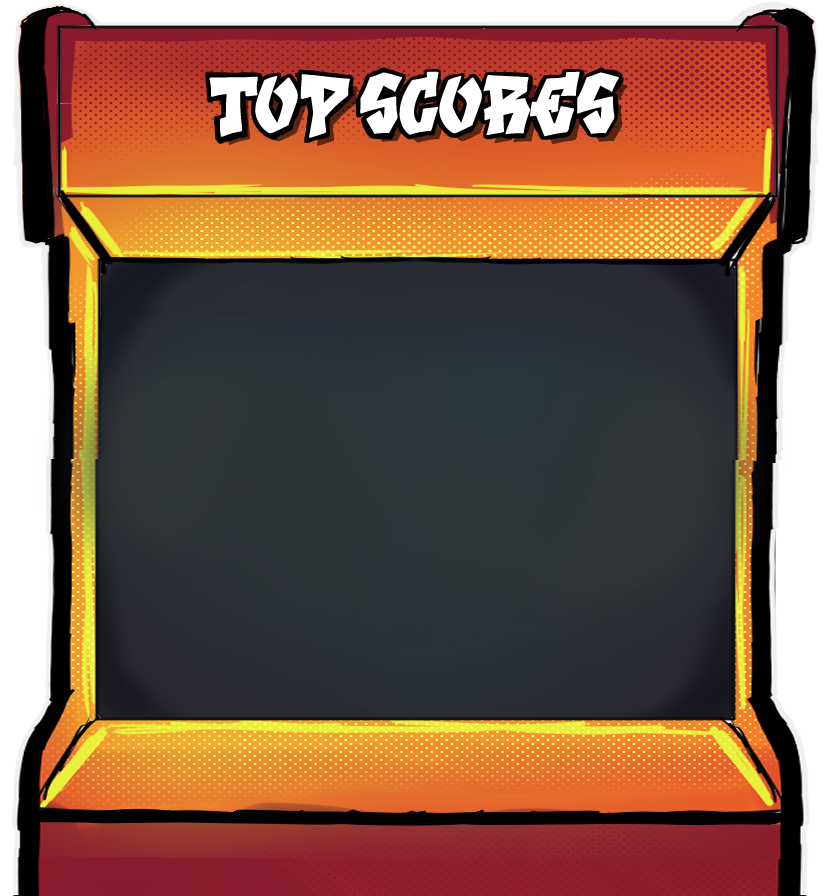
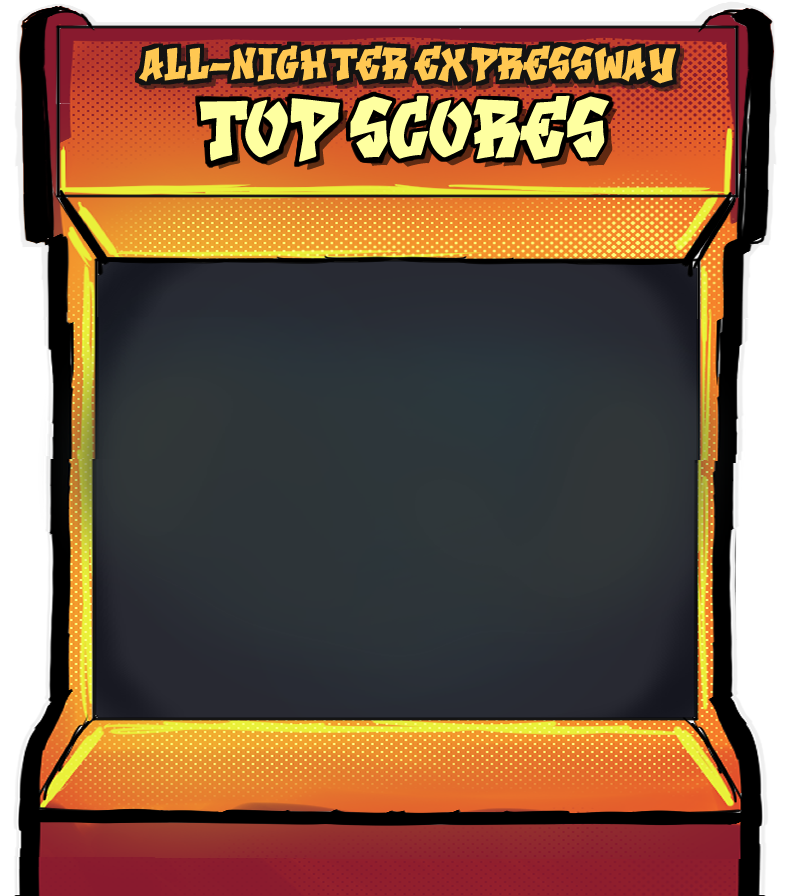
Updated top scores arcade image text to be: "All Nighter Expressway Top Scores"

Changed region(s): [[0.1517, 0.0, 1.0, 1.0], [0.0, 0.0, 0.1517, 1.0], [0.091, 0.0, 0.1214, 0.0312]]

diff --git a/src/components/home/preview-leaderboard.tsx b/src/components/home/preview-leaderboard.tsx
@@ -21,9 +21,10 @@ const getPlacementColor = (index: number): string => {
 const PreviewLeaderboard = ({ data }: { data: any }) => {
   return (
     <>
-    <div className="top-0 z-0 w-full h-[90vh] lg:w-3/5 md:h-225 bg-[url('images/arcade-machine-2.png')] 
-    xl:bg-[url('images/arcade-machine-wide.png')] bg-no-repeat bg-size-[100%_100%]">
-    </div>
+      <div
+        className="top-0 z-0 w-full h-[90vh] lg:w-3/5 md:h-225 bg-[url('images/arcade-machine-2.png')] 
+    md:bg-[url('images/arcade-machine-wide.png')] bg-no-repeat bg-size-[100%_100%]"
+      ></div>
       <table
         id="scoreboard"
         className="absolute top-[27%] 
@@ -34,9 +35,7 @@ const PreviewLeaderboard = ({ data }: { data: any }) => {
           <th className="racingHeader text-[4vw] md:text-[3vw] lg:text-[2vw] w-[20%] text-center">
             Placing
           </th>
-          <th className="racingHeader text-[4vw] md:text-[3vw] lg:text-[2vw] w-[20%] text-center">
-
-          </th>
+          <th className="racingHeader text-[4vw] md:text-[3vw] lg:text-[2vw] w-[20%] text-center"></th>
           <th className="racingHeader text-[4vw] md:text-[3vw] lg:text-[2vw] w-[20%] text-center">
             Player
           </th>
